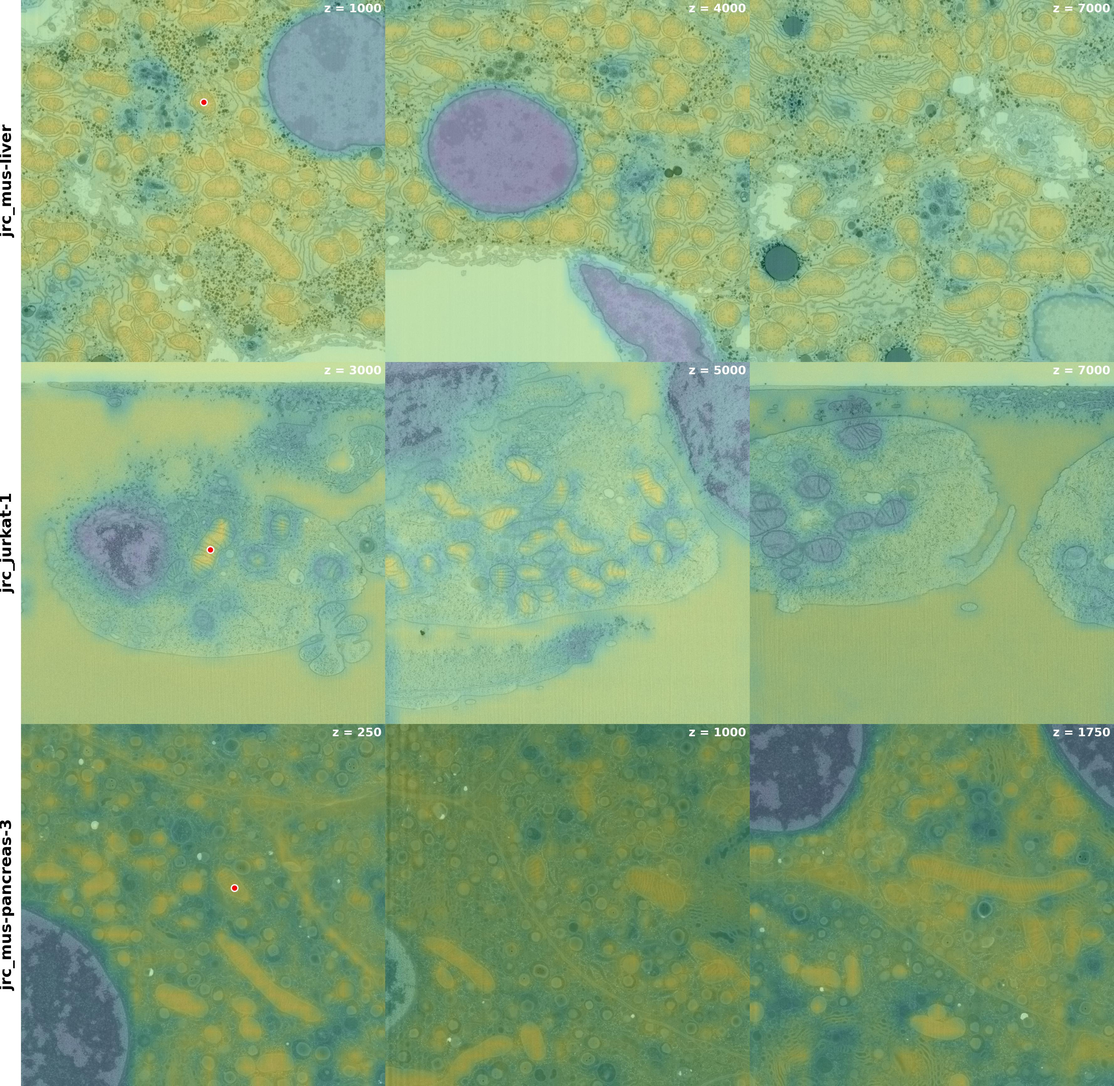
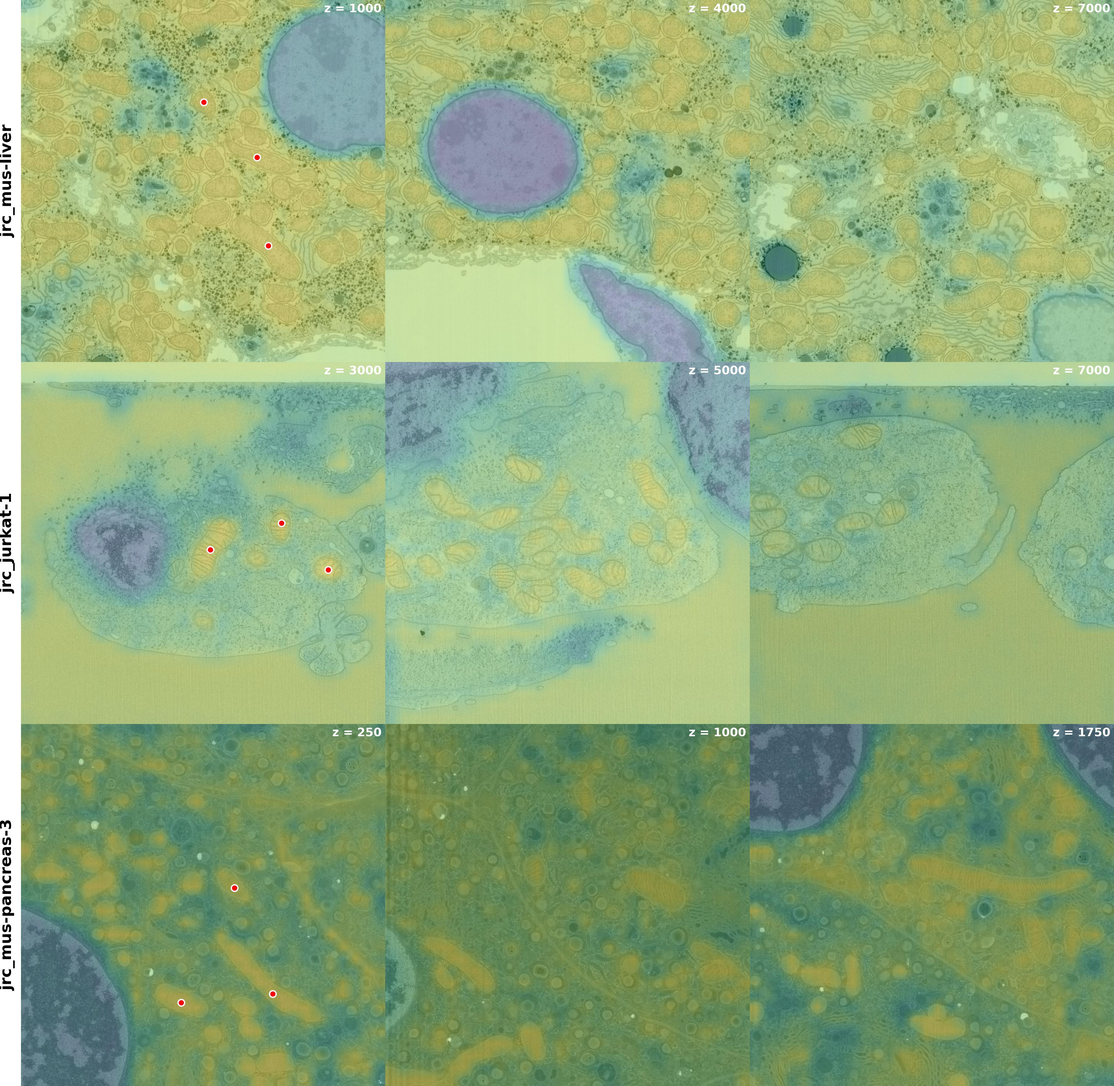
revert back data_dir location

diff --git a/run.py b/run.py
@@ -27,7 +27,7 @@ if __name__ == "__main__":
     
     # --- Data & config arguments ---
     parser.add_argument("--config", type=str, default="selected_crops.json", help="Path to JSON crops config.")
-    parser.add_argument("--data_dir", type=str, default="../seg3d/data", help="Base directory containing EM volumes.")
+    parser.add_argument("--data_dir", type=str, default="data", help="Base directory containing EM volumes.")
     
     # --- Embedding arguments ---
     parser.add_argument("--dinov3_repo_path", type=str, default="../dinov3", help="Local DINOv3 repo path.")
@@ -101,54 +101,53 @@ if __name__ == "__main__":
         selected_queries_dict=single_query,
         crop_config=crop_config,
         base_data_dir=args.data_dir,
-        output_filename=f"visuals/single_query_{args.backbone}_{args.embed_mode}_{args.pretrained}_{args.input_size}.jpeg",
-        plot_raw=True
+        output_filename=f"visuals/single_query_{args.backbone}_{args.embed_mode}_{args.pretrained}_{args.input_size}.jpeg"
     )
     # ===================================
 
-    # # === Multi-query average example ===
-    # multi_query_avg = select_queries(query_dict, ("jrc_jurkat-1", "jurkat_1_1", ["q1", "q2", "q3"]))
+    # === Multi-query average example ===
+    multi_query_avg = select_queries(query_dict, ("jrc_jurkat-1", "jurkat_1_1", ["q1", "q2", "q3"]))
 
-    # sim_maps = get_similarity_maps(multi_query_avg, embeddings_dict, crop_config, method="average")
+    sim_maps = get_similarity_maps(multi_query_avg, embeddings_dict, crop_config, method="average")
 
-    # plot_retrieval_results(
-    #     sim_maps=sim_maps,
-    #     selected_queries_dict=multi_query_avg,
-    #     crop_config=crop_config,
-    #     base_data_dir=args.data_dir,
-    #     output_filename=f"visuals/multi_query_avg_{args.backbone}_{args.embed_mode}_{args.pretrained}_{args.input_size}.jpeg"
-    # )
-    # # ===================================
+    plot_retrieval_results(
+        sim_maps=sim_maps,
+        selected_queries_dict=multi_query_avg,
+        crop_config=crop_config,
+        base_data_dir=args.data_dir,
+        output_filename=f"visuals/multi_query_avg_{args.backbone}_{args.embed_mode}_{args.pretrained}_{args.input_size}.jpeg"
+    )
+    # ===================================
 
-    # # === Multi-query maxsim example ===
-    # multi_query_maxsim = select_queries(query_dict, ("jrc_jurkat-1", "jurkat_1_1", ["q1", "q4", "q6"]))
+    # === Multi-query maxsim example ===
+    multi_query_maxsim = select_queries(query_dict, ("jrc_jurkat-1", "jurkat_1_1", ["q1", "q4", "q6"]))
 
-    # sim_maps = get_similarity_maps(multi_query_maxsim, embeddings_dict, crop_config, method="maxsim")
+    sim_maps = get_similarity_maps(multi_query_maxsim, embeddings_dict, crop_config, method="maxsim")
 
-    # plot_retrieval_results(
-    #     sim_maps=sim_maps,
-    #     selected_queries_dict=multi_query_maxsim,
-    #     crop_config=crop_config,
-    #     base_data_dir=args.data_dir,
-    #     output_filename=f"visuals/multi_query_maxsim_{args.backbone}_{args.embed_mode}_{args.pretrained}_{args.input_size}.jpeg"
-    # )
-    # # ===================================
+    plot_retrieval_results(
+        sim_maps=sim_maps,
+        selected_queries_dict=multi_query_maxsim,
+        crop_config=crop_config,
+        base_data_dir=args.data_dir,
+        output_filename=f"visuals/multi_query_maxsim_{args.backbone}_{args.embed_mode}_{args.pretrained}_{args.input_size}.jpeg"
+    )
+    # ===================================
 
-    # # === Multi-volume multi-query maxsim example ===
-    # multi_volume_multi_query_maxsim = select_queries(
-    #     query_dict, 
-    #     ("jrc_mus-liver", "mus_liver_1", ["q1", "q2", "q3"]),
-    #     ("jrc_jurkat-1", "jurkat_1_1", ["q1", "q4", "q6"]),
-    #     ("jrc_mus-pancreas-3", "mus_pancreas_3_1", ["q1", "q2", "q3"])
-    # )
+    # === Multi-volume multi-query maxsim example ===
+    multi_volume_multi_query_maxsim = select_queries(
+        query_dict, 
+        ("jrc_mus-liver", "mus_liver_1", ["q1", "q2", "q3"]),
+        ("jrc_jurkat-1", "jurkat_1_1", ["q1", "q4", "q6"]),
+        ("jrc_mus-pancreas-3", "mus_pancreas_3_1", ["q1", "q2", "q3"])
+    )
 
-    # sim_maps = get_similarity_maps(multi_volume_multi_query_maxsim, embeddings_dict, crop_config, method="maxsim")
+    sim_maps = get_similarity_maps(multi_volume_multi_query_maxsim, embeddings_dict, crop_config, method="maxsim")
 
-    # plot_retrieval_results(
-    #     sim_maps=sim_maps,
-    #     selected_queries_dict=multi_volume_multi_query_maxsim,
-    #     crop_config=crop_config,
-    #     base_data_dir=args.data_dir,
-    #     output_filename=f"visuals/multi_volume_multi_query_maxsim_{args.backbone}_{args.embed_mode}_{args.pretrained}_{args.input_size}.jpeg"
-    # )
-    # # ===================================
+    plot_retrieval_results(
+        sim_maps=sim_maps,
+        selected_queries_dict=multi_volume_multi_query_maxsim,
+        crop_config=crop_config,
+        base_data_dir=args.data_dir,
+        output_filename=f"visuals/multi_volume_multi_query_maxsim_{args.backbone}_{args.embed_mode}_{args.pretrained}_{args.input_size}.jpeg"
+    )
+    # ===================================
